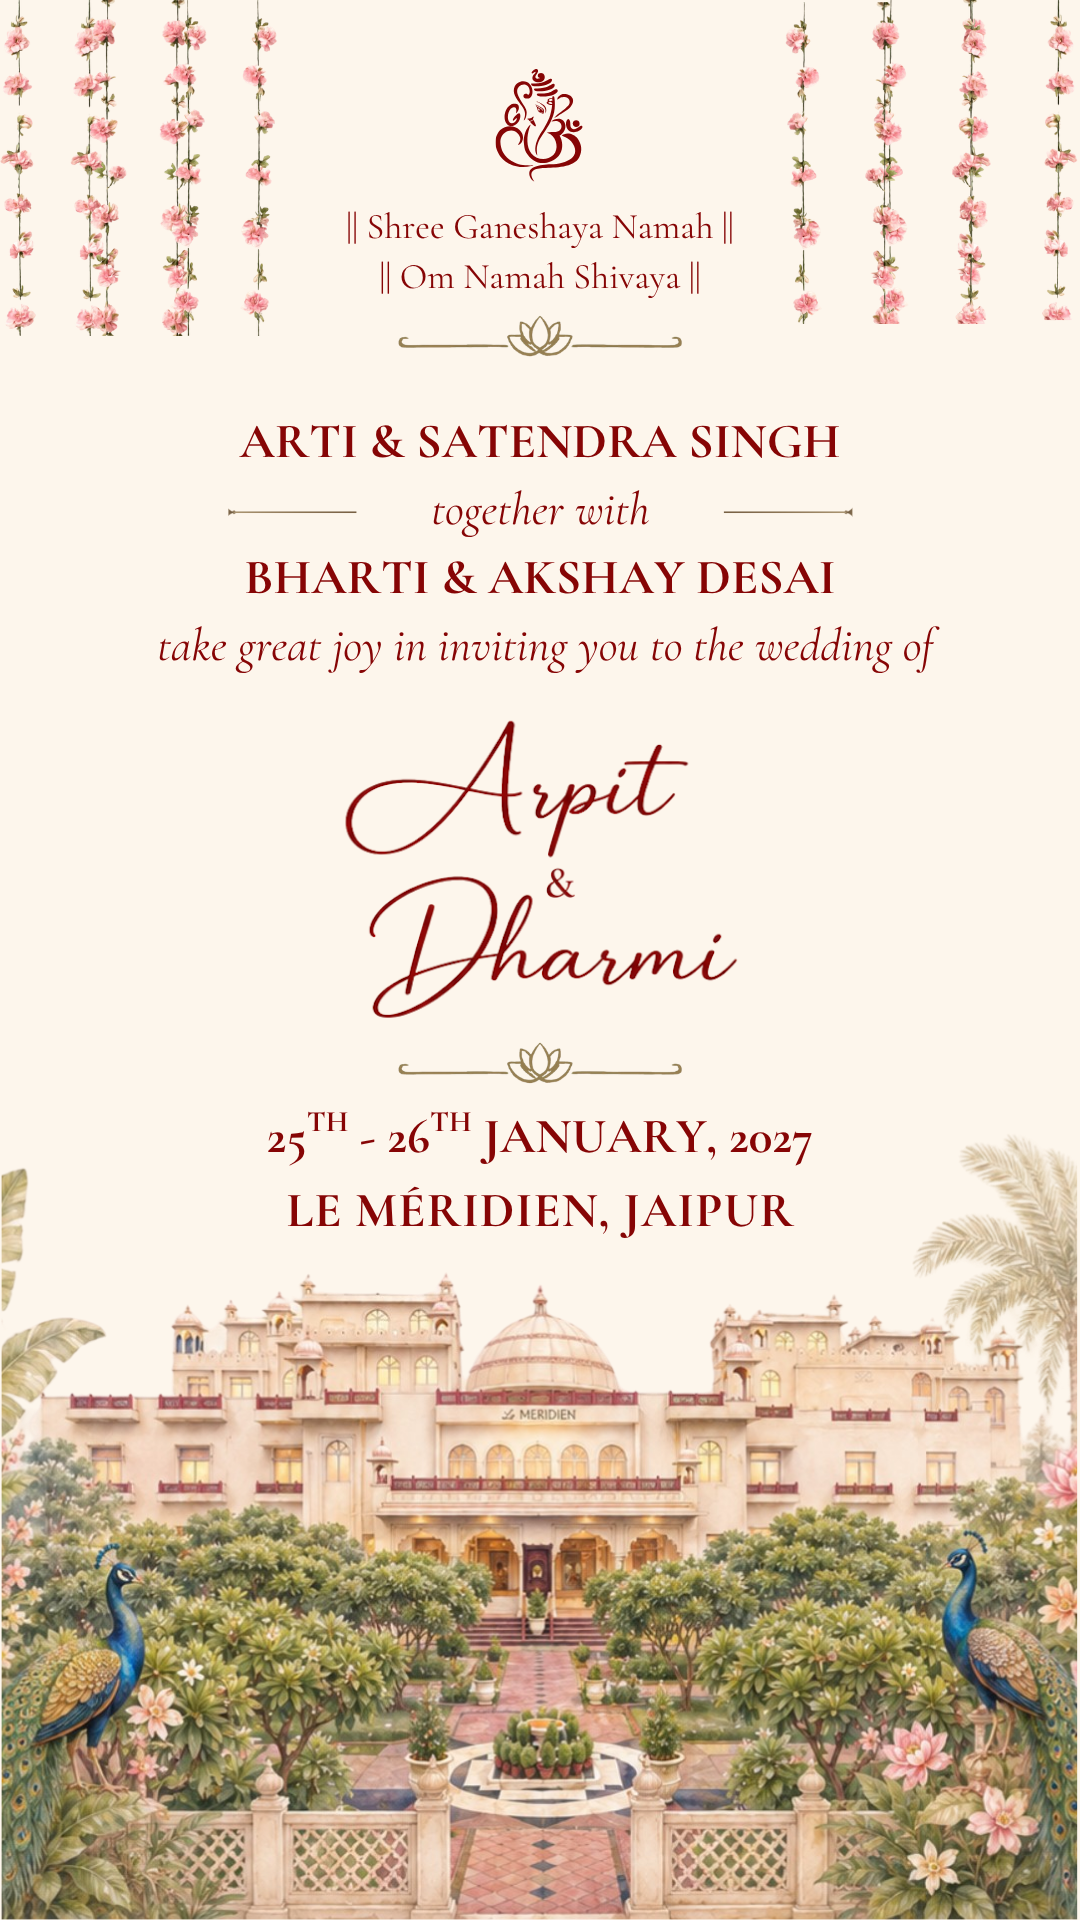
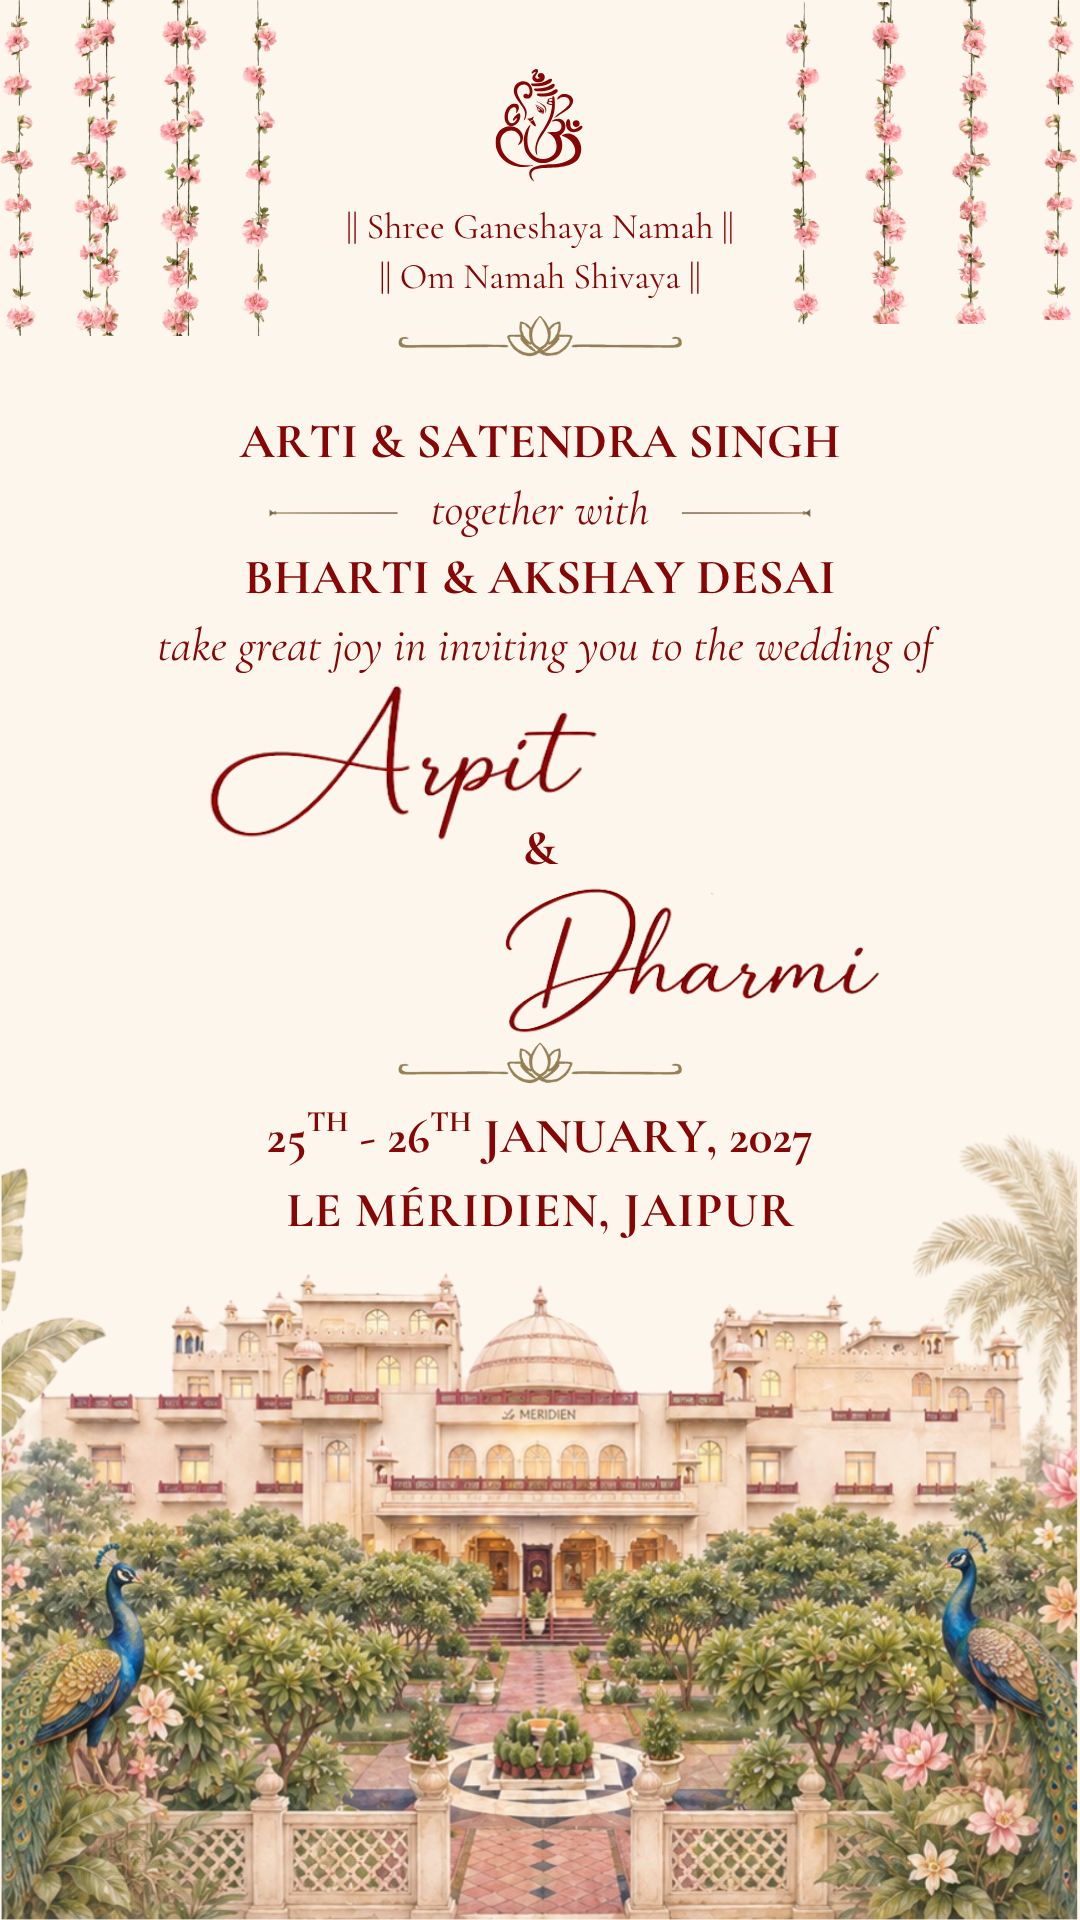
Update mobile invite with latest landing2 art.

diff --git a/src/components/opening/welcome-assets.ts b/src/components/opening/welcome-assets.ts
@@ -1,4 +1,4 @@
-export const BUILD = "desklanding2-20260719v";
+export const BUILD = "landing2-20260719w";
 
 /** Phone invite — base art (Desktop landing2@2x.png) */
 export const LANDING2_PHONE = `/images/landing2@2x.png?${BUILD}`;
